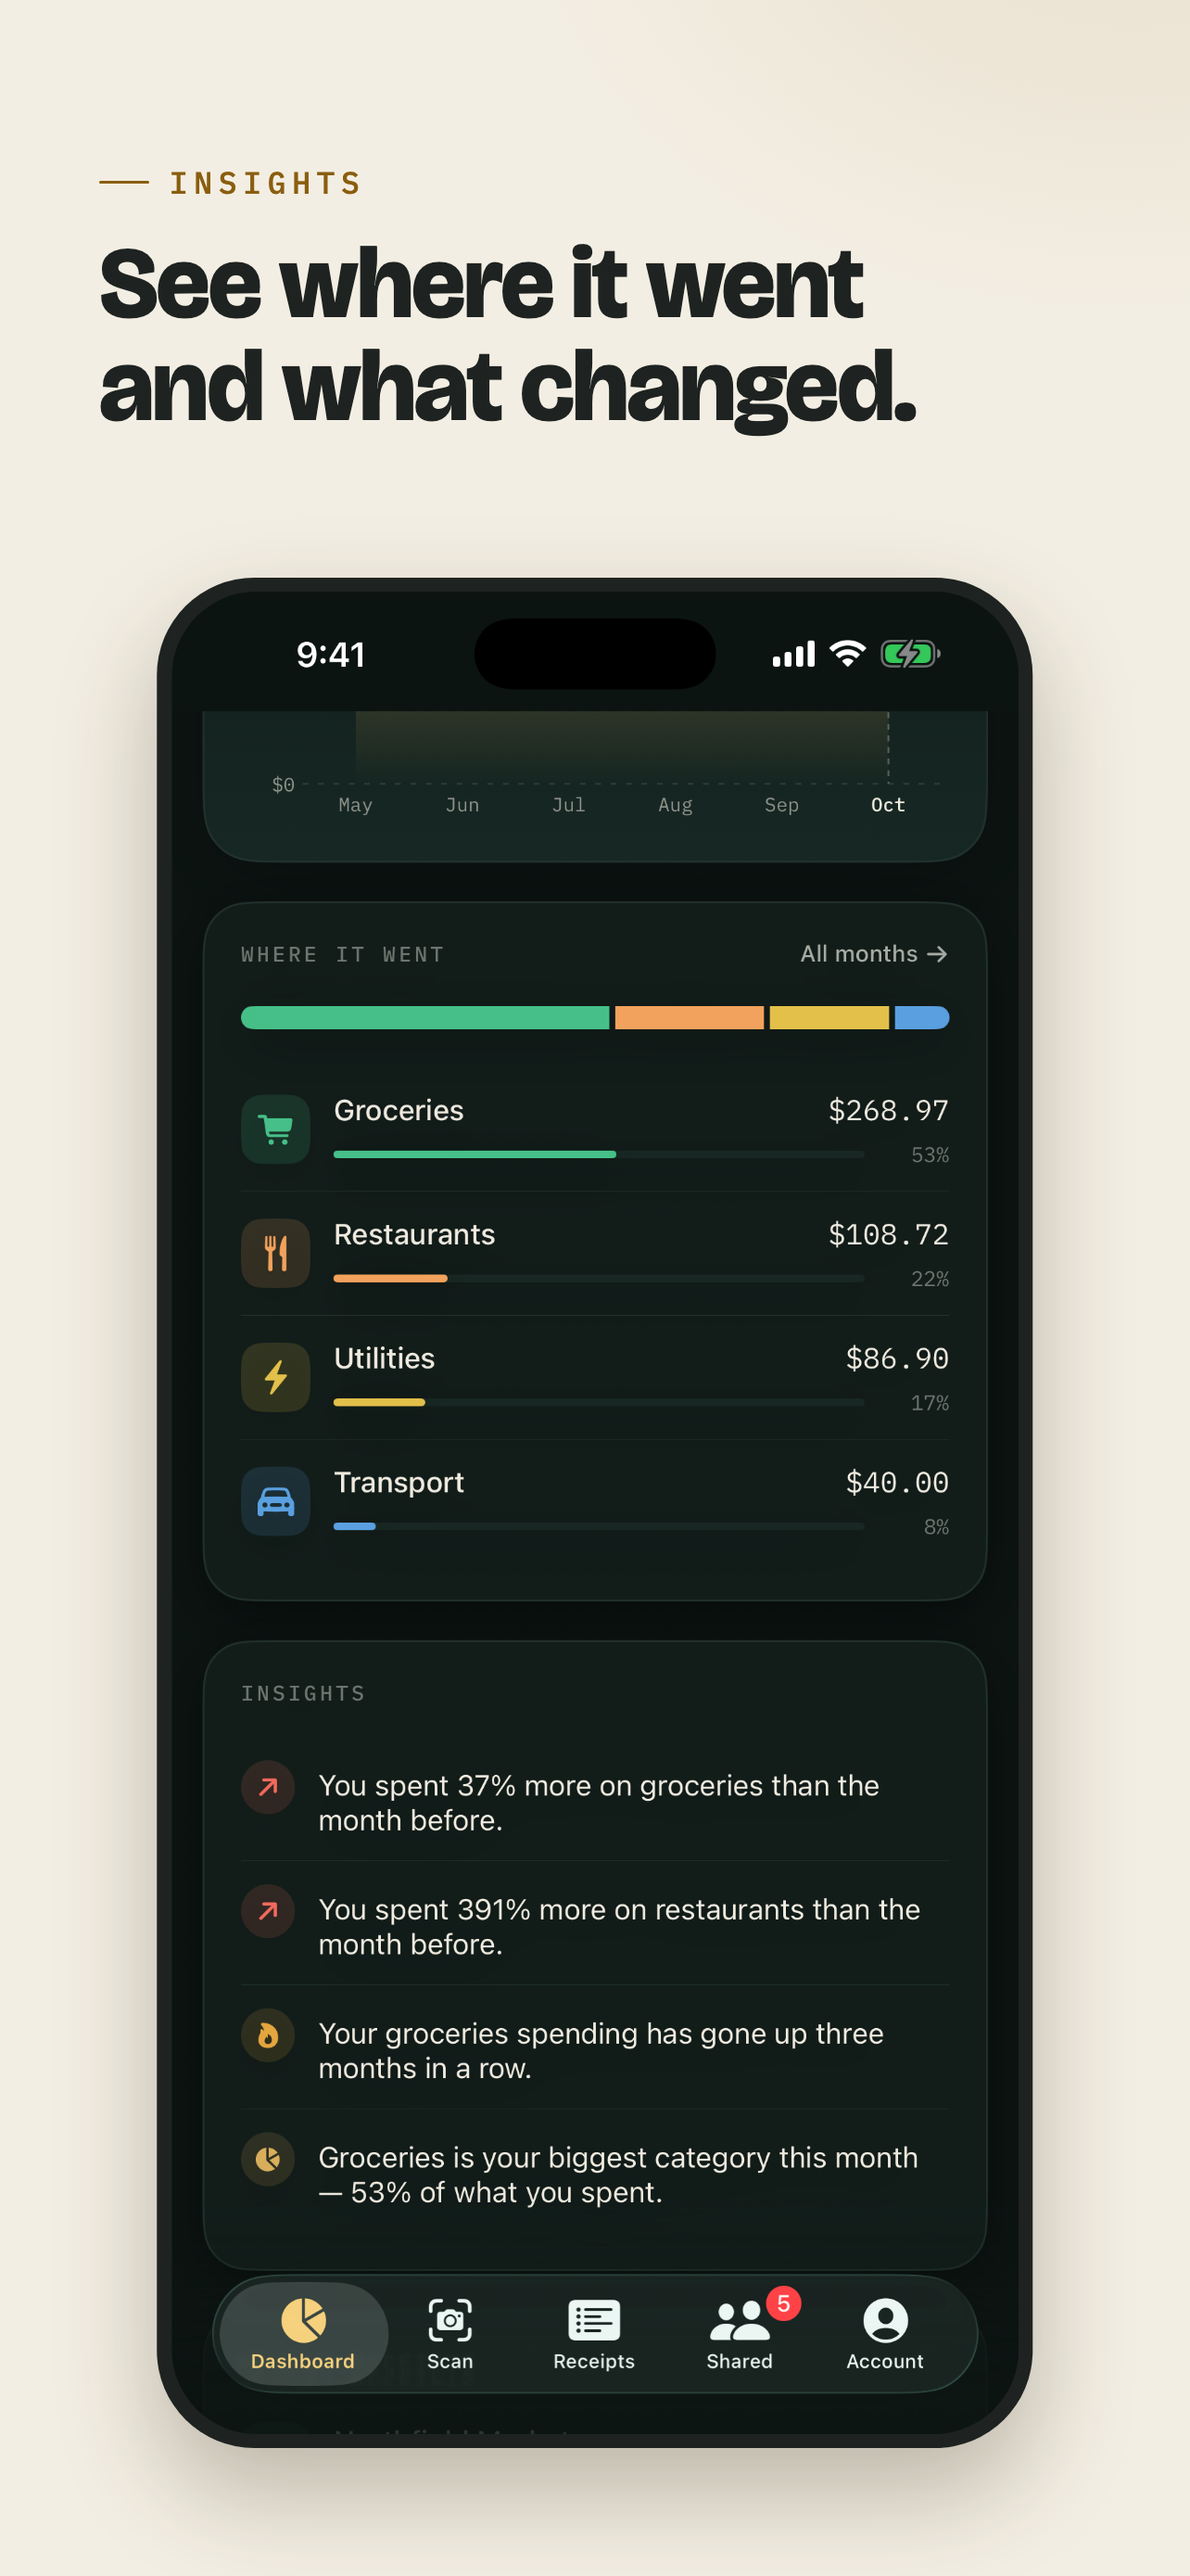
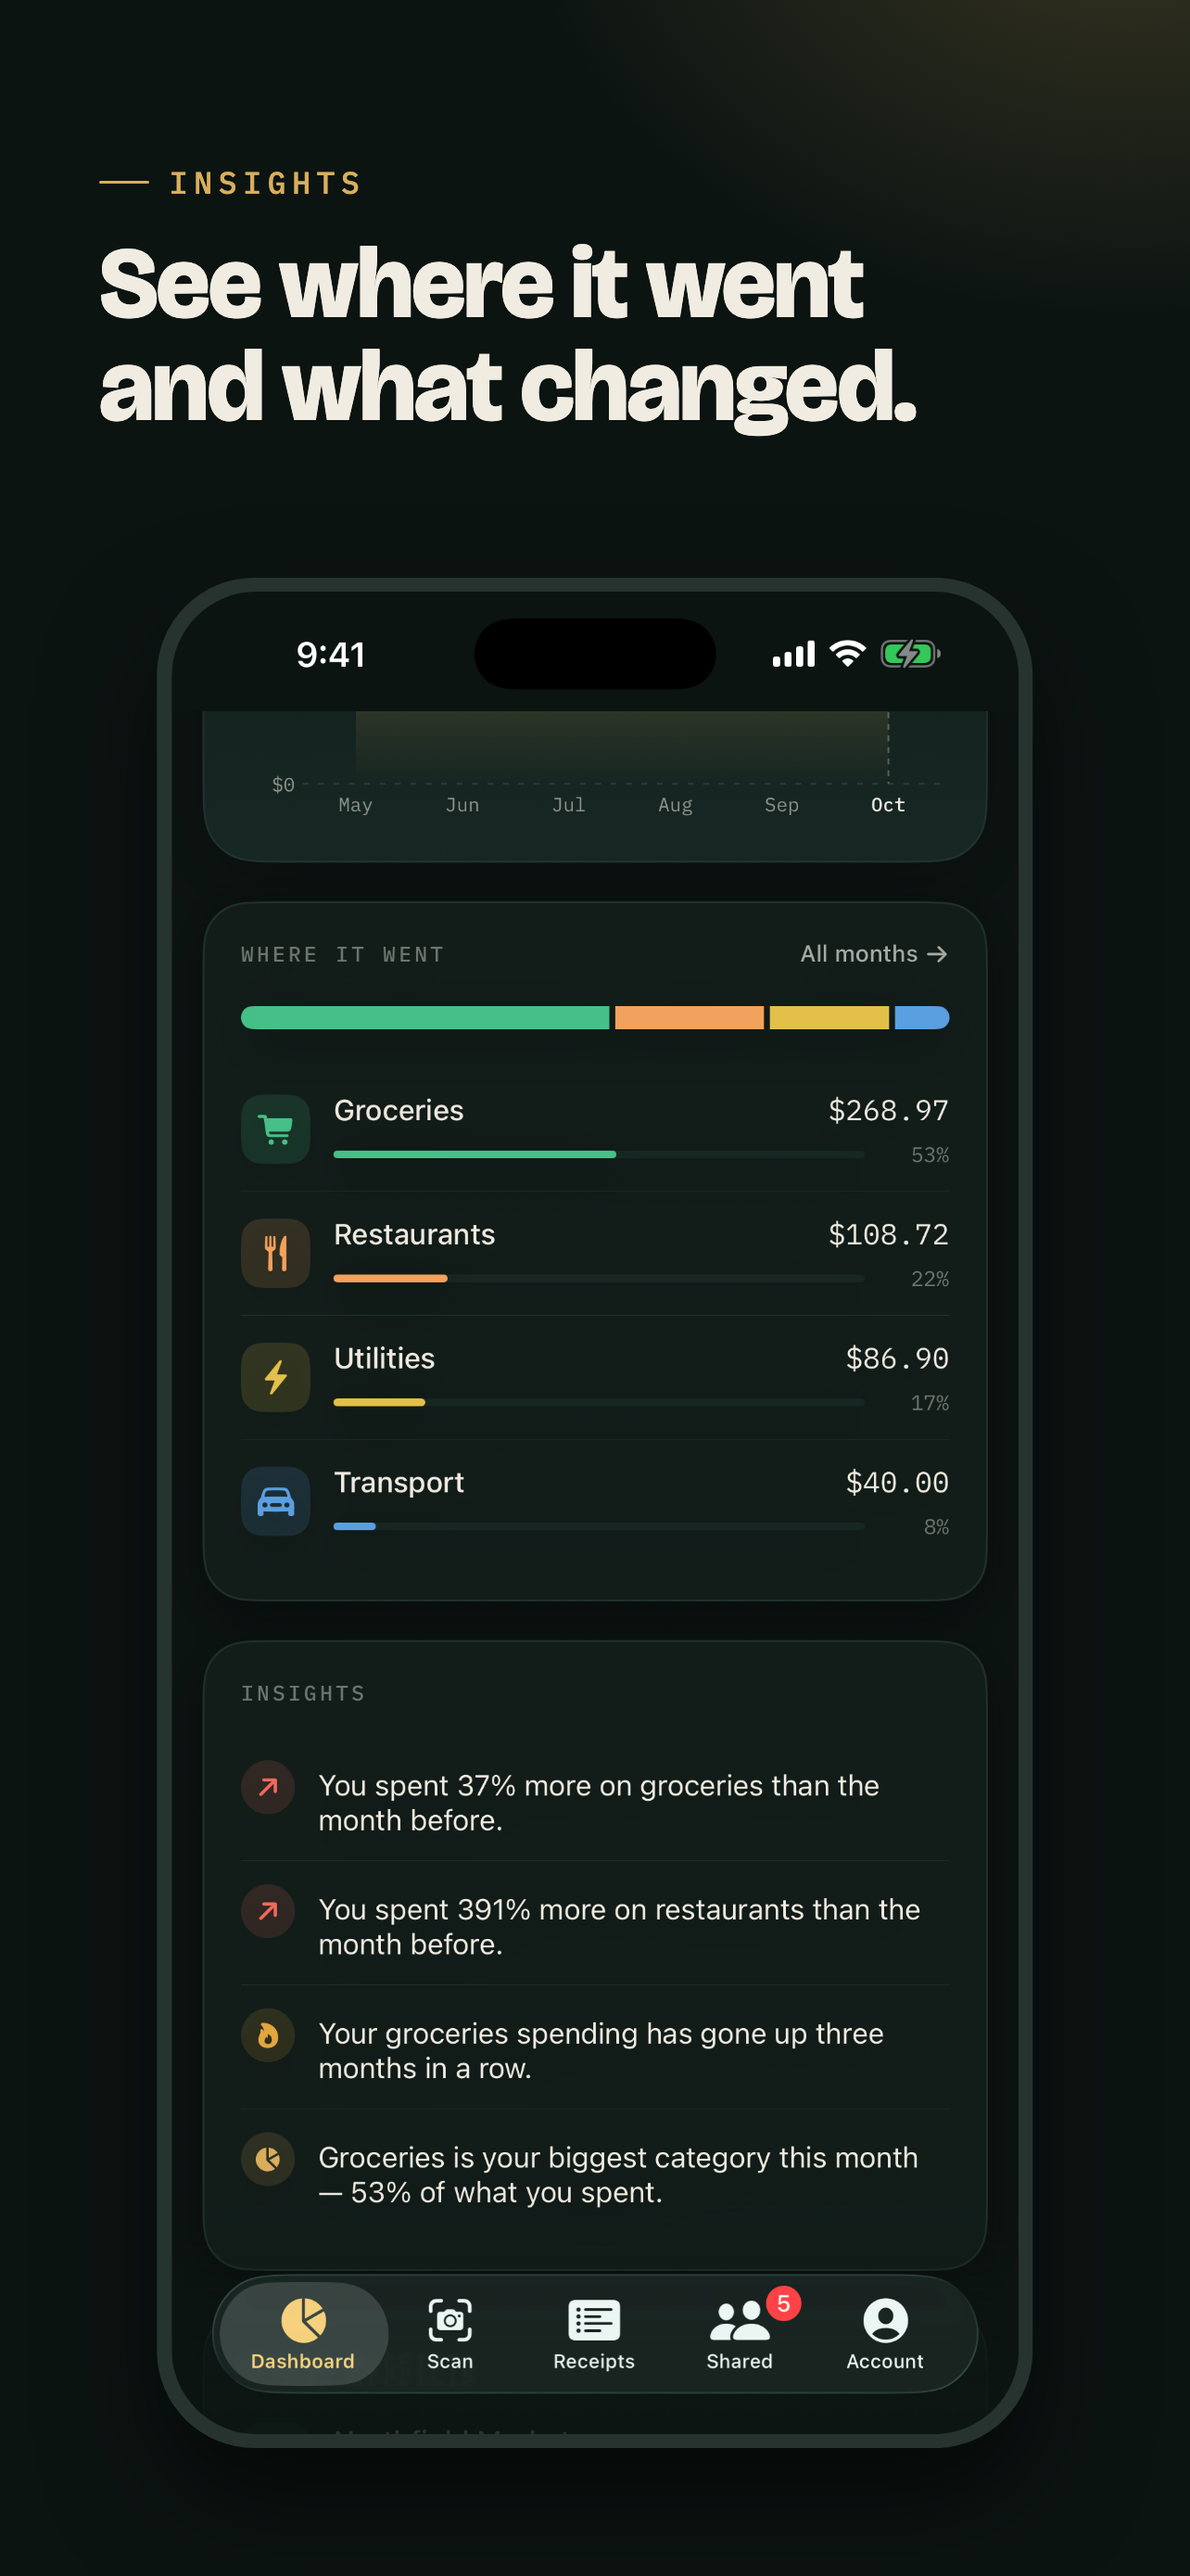
App Store screenshots: slides 1-6 on dark, receipts + history on light at the end

diff --git a/brand/app-store/build.py b/brand/app-store/build.py
@@ -22,12 +22,12 @@ CHROME = "/Applications/Google Chrome.app/Contents/MacOS/Google Chrome"
 # (output name, raw capture, theme, eyebrow, headline) — in App Store order.
 SLIDES = [
     ("01-scan", "scan.png", "dark", "Scan", "Snap a receipt.<br>It reads itself."),
-    ("02-split", "split-items.png", "light", "Split it", "Split the bill,<br>item by item."),
+    ("02-split", "split-items.png", "dark", "Split it", "Split the bill,<br>item by item."),
     ("03-group", "group.png", "dark", "Groups", "Who owes whom,<br>always up to date."),
-    ("04-dashboard", "dashboard.png", "light", "This month", "Know where your<br>month stands."),
+    ("04-dashboard", "dashboard.png", "dark", "This month", "Know where your<br>month stands."),
     ("05-shared", "shared.png", "dark", "Shared", "Trips, roommates,<br>friends. One balance."),
-    ("06-insights", "insights.png", "light", "Insights", "See where it went<br>and what changed."),
-    ("07-receipts", "receipts.png", "dark", "Receipts", "Every receipt,<br>one search away."),
+    ("06-insights", "insights.png", "dark", "Insights", "See where it went<br>and what changed."),
+    ("07-receipts", "receipts.png", "light", "Receipts", "Every receipt,<br>one search away."),
     ("08-history", "history.png", "light", "History", "Month over month,<br>at a glance."),
 ]
 

diff --git a/docs/APP_STORE.md b/docs/APP_STORE.md
@@ -138,8 +138,11 @@ is enough, and Apple scales it for the other iPhone sizes. The app is iPhone-onl
 | 4 | `out/<size>/04-dashboard.png` | This month's total + trend |
 | 5 | `out/<size>/05-shared.png` | The Shared tab: people and groups |
 | 6 | `out/<size>/06-insights.png` | Where it went + insights |
-| 7 | `out/<size>/07-receipts.png` | Receipts list, light mode |
-| 8 | `out/<size>/08-history.png` | Month history, light mode |
+| 7 | `out/<size>/07-receipts.png` | Receipts list (light ground) |
+| 8 | `out/<size>/08-history.png` | Month history (light ground) |
+
+Slides 1–6 sit on the dark ground and 7–8 on the light one: mostly dark, with
+the two light ones together at the end rather than alternating.
 
 The raw captures are in `brand/app-store/raw/`: iPhone 17 Pro Max simulator,
 status bar overridden to 9:41, launched with the debug-only
